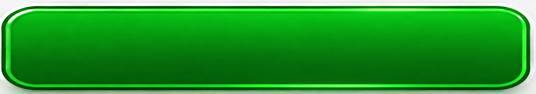
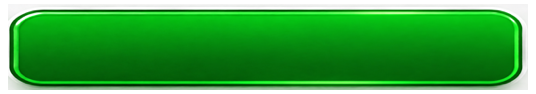
Align Translate material and preserve hover

diff --git a/layouts/assets/main.css b/layouts/assets/main.css
@@ -249,32 +249,39 @@ img {
   font-weight: 600;
 }
 
-.main-primary-action {
+.main-secondary-action {
+  color: #0059d9;
+  background: rgba(255, 255, 255, 0.78);
+  border: 1px solid #087bff;
+}
+
+.main-primary-action,
+.complete-toolbar__translate {
   height: 50px;
   color: #fff;
   background-color: transparent;
-  background-image: url("../images/button-primary-wide-smooth.png");
   background-position: center 4px;
   background-repeat: no-repeat;
   background-size: 100% 48px;
+  border: 0;
+}
+
+.main-primary-action {
+  background-image: url("../images/button-primary-wide-smooth.png");
 }
 
 .setup-toolbar > .main-primary-action {
   transform: translateY(6px)
 }
 
-.main-primary-action img {
+.main-primary-action img,
+.complete-toolbar__translate img {
   filter: brightness(0) invert(1);
 }
 
-.main-primary-action:hover {
+.main-primary-action:hover,
+.complete-toolbar__translate:hover {
   filter: brightness(0.96);
-}
-
-.main-secondary-action {
-  color: #0059d9;
-  background: rgba(255, 255, 255, 0.78);
-  border: 1px solid #087bff;
 }
 
 .main-secondary-action img {
@@ -282,28 +289,12 @@ img {
   height: 17px;
 }
 
-.main-secondary-action:hover {
+.main-secondary-action:not(.complete-toolbar__translate):hover {
   background: #fff;
 }
 
 .complete-toolbar__translate {
-  height: 50px;
-  color: #fff;
-  background-color: transparent;
   background-image: url("../images/button-primary-green-wide-smooth.png");
-  background-position: center 4px;
-  background-repeat: no-repeat;
-  background-size: 100% 48px;
-  border: 0;
-}
-
-.complete-toolbar__translate:hover {
-  background-color: transparent;
-  filter: brightness(0.96);
-}
-
-.complete-toolbar__translate img {
-  filter: brightness(0) invert(1);
 }
 
 .setup-toolbar--processing .main-control:disabled,

diff --git a/layouts/main.html b/layouts/main.html
@@ -5,7 +5,7 @@
     <meta name="viewport" content="width=device-width, initial-scale=1">
     <meta name="color-scheme" content="light">
     <title>Transcriber</title>
-    <link rel="stylesheet" href="./assets/main.css?v=23">
+    <link rel="stylesheet" href="./assets/main.css?v=24">
   </head>
   <body>
     <main class="main-window" data-app="transcriber-main" data-current-view="ready" aria-labelledby="main-window-title">

diff --git a/design-qa.md b/design-qa.md
@@ -1,21 +1,25 @@
-# Design QA — state 3 Translate material
+# Design QA — state 3 Translate alignment and hover
 
-Source visual truth: `/Users/gri/.codex/worktrees/1ed5/transcriber/design/artifacts/cloud-white/button-primary-green-2k.png`
+Source visual truth:
+
+- User annotation on the complete-state toolbar at `http://127.0.0.1:4174/layouts/main.html?state=complete`.
+- Save as is the geometry reference.
+- Green material source: `/Users/gri/.codex/worktrees/1ed5/transcriber/design/artifacts/cloud-white/button-primary-green-2k.png`.
 
 Implementation screenshots:
 
-- Full view: `/tmp/qa-main-translate-green-complete.jpg`
-- Focused button region: `/tmp/qa-main-translate-green-focus.jpg`
+- Full view: `/tmp/qa-main-translate-aligned-593x643.jpg`.
+- Focused toolbar: `/tmp/qa-main-translate-toolbar-593x90.jpg`.
 
-Viewport: 1280 × 720 CSS px, device scale factor 1.
+Viewport: 593 × 643 CSS px, device scale factor 1.
 
 Pixels and normalization:
 
-- Source: 2152 × 731 px.
-- Generated text-free material: 536 × 94 px, fitted to the same 180 × 50 CSS px slot as Save as.
-- Full implementation capture: 1280 × 720 px.
-- Focused implementation capture: 200 × 70 px.
-- The reference and focused render were compared together at their native densities; geometry was judged from the browser's computed CSS measurements.
+- Green source: 2152 × 731 px.
+- Green text-free material: 536 × 94 px with normalized internal padding.
+- Full implementation capture: 593 × 643 px.
+- Focused toolbar capture: 570 × 90 px.
+- Source material and the focused implementation were opened together. Save as and Translate were also judged side by side in the same focused capture.
 
 State: complete (`?state=complete`).
 
@@ -23,23 +27,38 @@ State: complete (`?state=complete`).
 
 No actionable P0, P1, or P2 differences remain.
 
-- Fonts and typography: the live Translate label and globe icon remain crisp, centered, and readable over the image material.
-- Spacing and layout rhythm: Translate and Save as both measure 180 × 50 px and share the same y-position.
-- Colors and visual tokens: the generated image preserves the reference's bright green upper highlight, darker lower transition, inner neon rim, and dark outer edge.
-- Image quality and asset fidelity: the new raster is text-free, sharp at its rendered size, and replaces the former CSS-painted approximation.
-- Copy and content: the visible action remains “Translate”; no source-image “English” label or checkmark is present.
+- Fonts and typography: both live labels and icons remain centered and crisp.
+- Spacing and layout rhythm: Save as is `170.328 × 50` CSS px at `y = 41.5`; Translate is `170.336 × 50` CSS px at the same `y = 41.5`.
+- Colors and visual tokens: the green material remains intact and preserves its glossy transition.
+- Image quality and asset fidelity: the green raster retains the source material while its internal padding now matches the visual footprint of the blue action.
+- Copy and content: Save as, Translate, and Cancel remain unchanged.
+- Interaction state: the generic secondary-button hover rule explicitly excludes Translate. Translate hover keeps its background image and changes only brightness.
 
-Full-view comparison evidence: the complete toolbar remains aligned, the green action has the same footprint as Save as, and surrounding content does not shift.
+Full-view comparison evidence: the toolbar and downstream content retain their positions, with no overflow or wrapping at the annotated viewport.
 
-Focused comparison evidence: the source and focused render were opened together. The material transition, rim structure, and glossy highlight are preserved; only the source-specific text/checkmark were intentionally replaced by the live Translate content.
+Focused comparison evidence: Save as and Translate have matching top and bottom alignment in the 570 × 90 toolbar crop.
 
-Primary interaction/state checks: complete state loaded successfully; Translate and Save as were measured in the rendered page.
+Primary interaction/state checks: complete state loaded; both buttons were measured; hover CSS was inspected in the rendered page.
 
 Browser console errors: none.
 
 ## Comparison history
 
-Initial implementation pass: no actionable P0/P1/P2 mismatch was found, so no visual correction loop was required.
+Earlier P2 findings:
+
+- Translate’s visible green material extended lower than Save as despite equal element boxes.
+- The generic `.main-secondary-action:hover` shorthand removed Translate’s background image.
+
+Fixes:
+
+- Normalized the green raster’s internal padding against the blue material asset.
+- Consolidated shared primary geometry into one CSS rule.
+- Excluded Translate from the generic secondary hover and retained only a brightness change for its hover state.
+
+Post-fix evidence:
+
+- Both elements are 50 CSS px high and share `y = 41.5`.
+- Rendered CSS retains the green background image and no longer applies the image-clearing hover shorthand to Translate.
 
 ## Follow-up Polish
 
